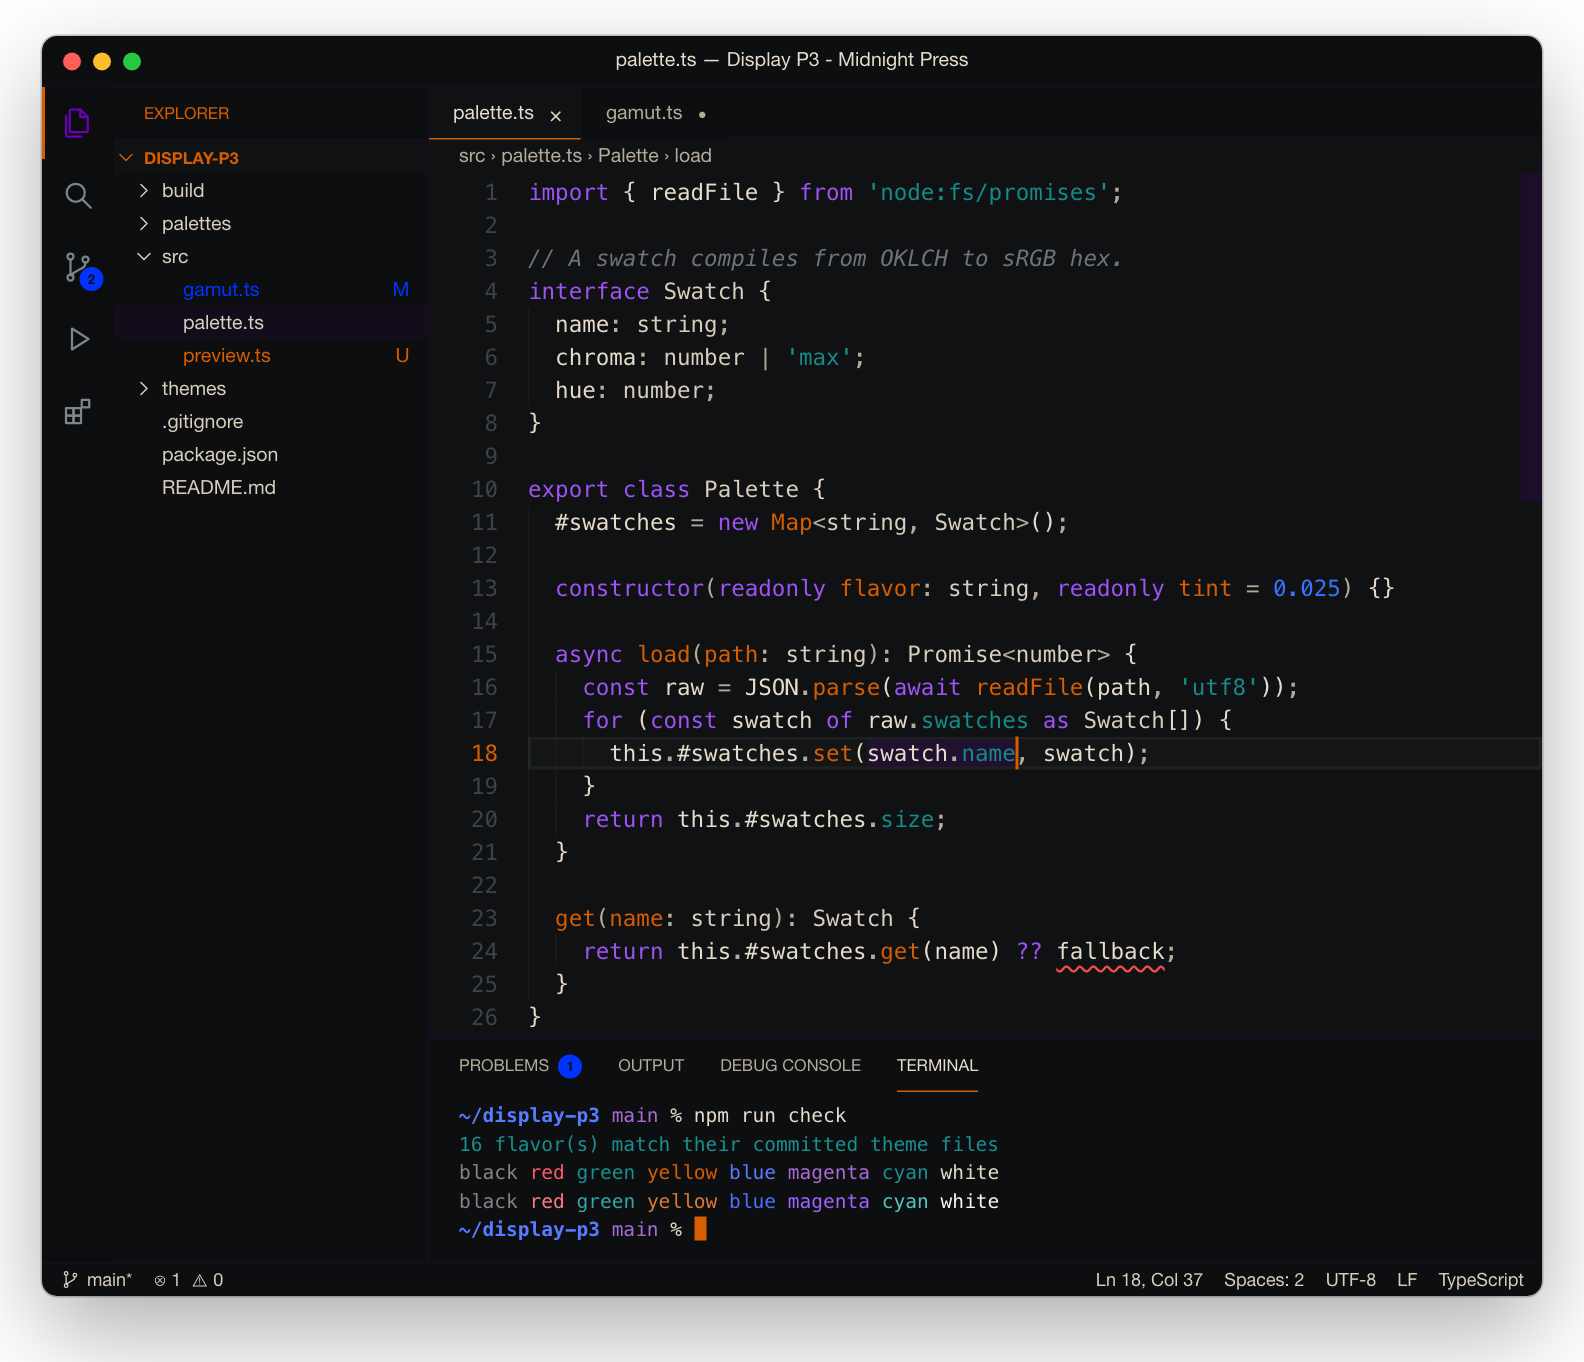
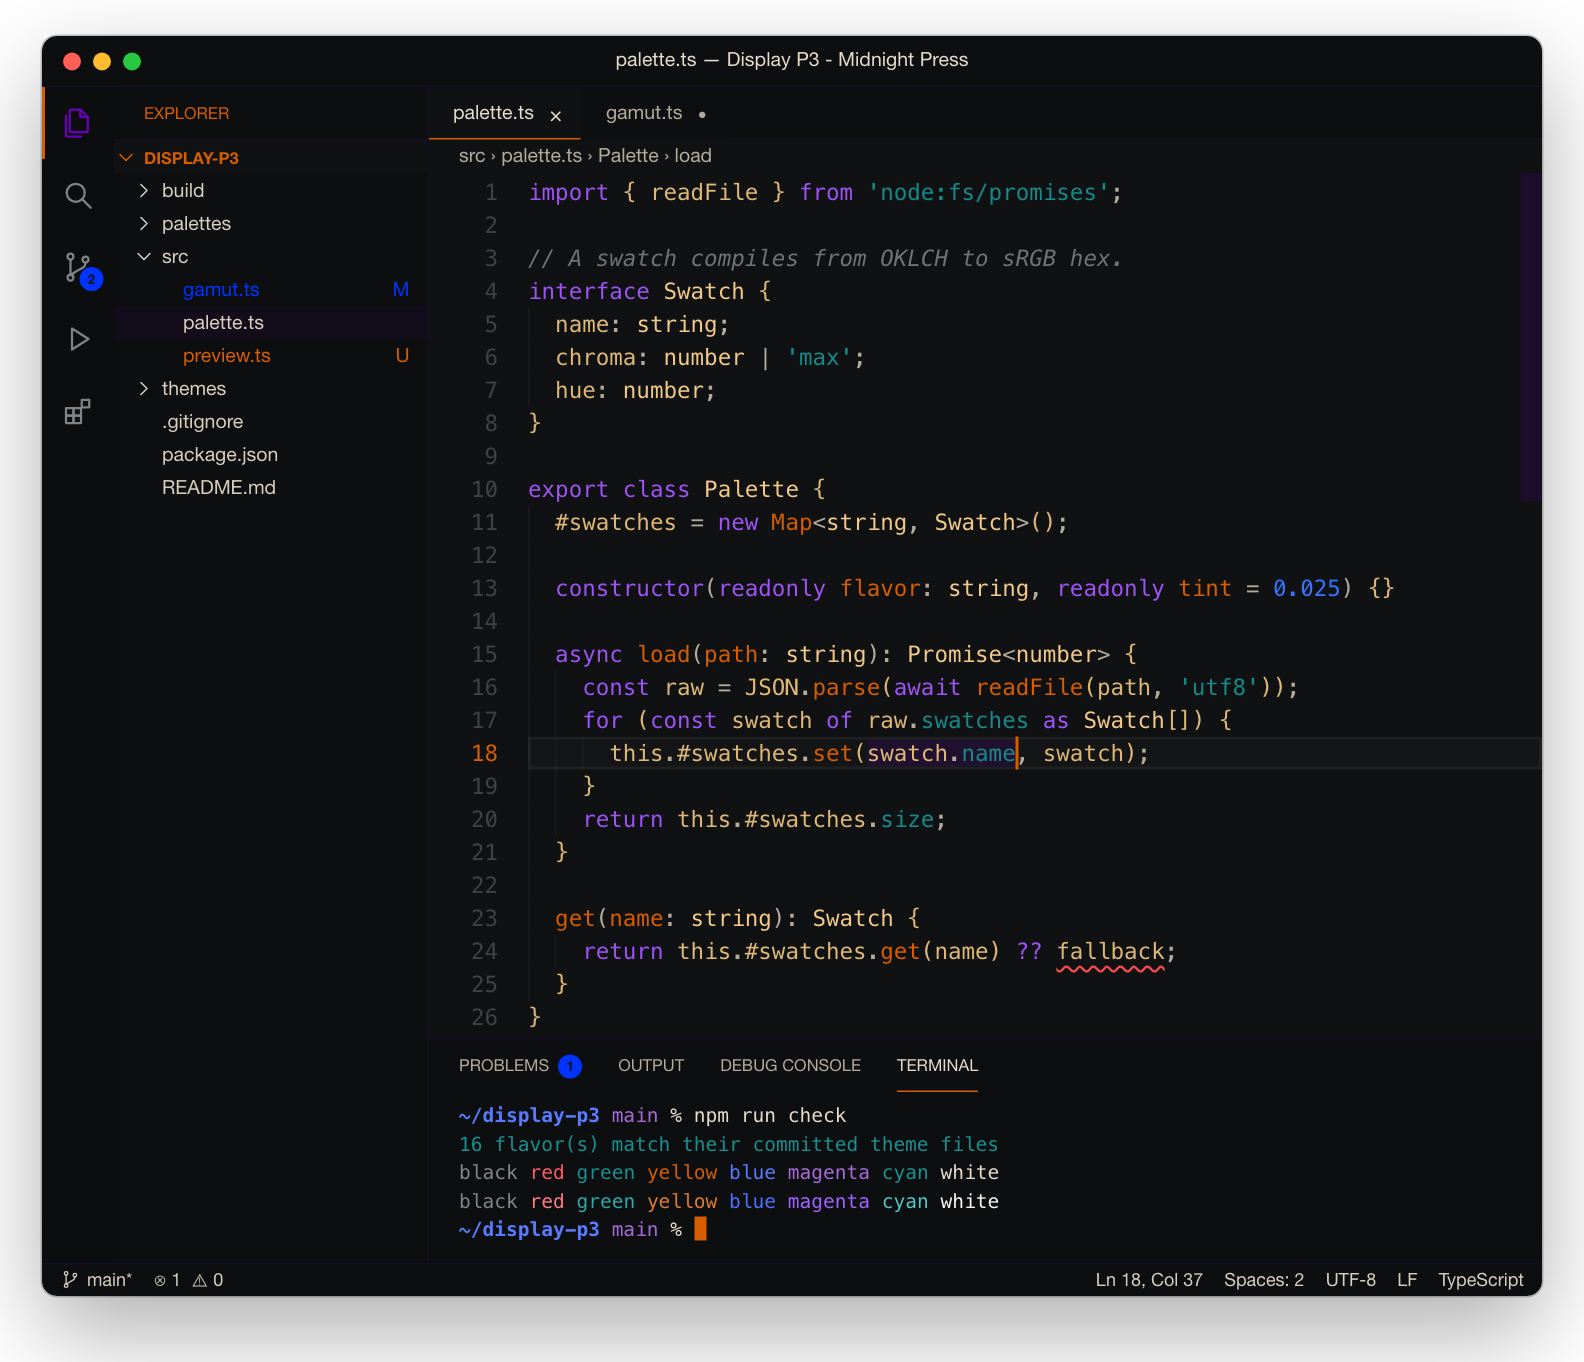
docs(readme): redraw the screenshots with colored code text
The grid now follows the opening paragraph, and the rule about tinted
whites says code text carries the background hue as a clear color.

diff --git a/README.md b/README.md
@@ -1,12 +1,12 @@
 # Display P3 Themes
 
-![All 16 Display P3 flavors](images/grid.png)
-
 Sixteen VS Code color themes, called flavors, tuned for bright wide-gamut screens such as Apple's Studio Display. Fifteen are dark and one is light. Dracula, Monokai, Solarized, Tokyo Night, Night Owl, One Dark and Synthwave are ports of the themes they're named after.
+
+![All 16 Display P3 flavors](images/grid.png)
 
 VS Code can't show colors beyond sRGB. Its themes accept only sRGB hex, and the editor converts them as sRGB on a [Display P3](https://en.wikipedia.org/wiki/DCI-P3) panel too. So "P3" here names the screens the flavors are built for, not the colors they use. Every flavor follows three rules:
 
-- No white or light grey without a hue. Editor text, terminal bright white and the line-highlight overlay take a slight tint from the flavor's background, so they don't glare at full brightness.
+- No white or light grey without a hue. Code text carries the flavor's background hue as a clear color. Terminal bright white and the line-highlight overlay take a slight tint of it, so they don't glare at full brightness.
 - The cursor, focus ring, errors, warnings and badges sit at the sRGB gamut edge, the most saturated color sRGB allows at their hue and lightness.
 - Editor text meets a 7:1 contrast ratio against the background, syntax colors 4.5:1 and comments 3:1, measured as WCAG 2.
 

diff --git a/CHANGELOG.md b/CHANGELOG.md
@@ -14,6 +14,7 @@ All notable changes to this extension are documented in this file. The format fo
   - Variables take the new code text color in Bioluminescent, Deep Earth, Midnight Press, Monokai, One Dark and Solar Flare.
   - Midnight Press types, classes, enums, namespaces and interfaces go from `#d9cebe` to `#f2c988`.
   - Solar Flare parameters, type parameters and interfaces go from `#ffe6c7` to `#ffe1ba`.
+- The README screenshots show the new code colors, and the grid of all 16 flavors follows the opening paragraph.
 
 ## 0.2.1 - 2026-10-04
 
